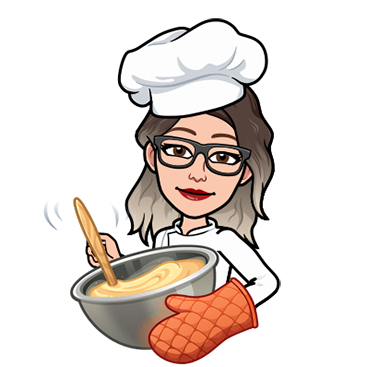
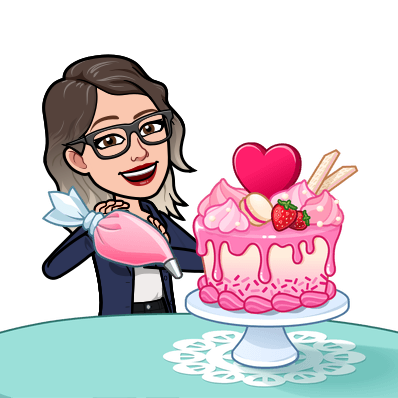
update hobbies (images, links, fancybox)

diff --git a/src/assets/css/styles.css b/src/assets/css/styles.css
@@ -1981,6 +1981,17 @@ blockquote:after {
   margin: 0;
 }
 
+/* ----- hobbies ----- */
+.art-hobbies-item-frame {
+  height: 100px;
+  width: 100px;
+  padding-bottom: 0;
+  box-shadow: none !important;
+}
+.art-hobbies-item-frame img {
+  object-fit: scale-down !important;
+}
+
 /* ----- brands ----- */
 .art-brand {
   width: 120px;
@@ -2034,7 +2045,8 @@ footer a:hover {
 }
 
 /* ----- portfolio items ----- */
-.art-portfolio-item-frame {
+.art-portfolio-item-frame,
+.art-hobbies-item-frame {
   display: block;
   width: 100%;
   outline: inherit;
@@ -2043,7 +2055,8 @@ footer a:hover {
   position: relative;
   padding-bottom: 60%;
 }
-.art-portfolio-item-frame img {
+.art-portfolio-item-frame img,
+.art-hobbies-item-frame img {
   position: absolute;
   width: 100%;
   height: 100%;
@@ -2054,7 +2067,8 @@ footer a:hover {
   filter: brightness(85%) blur(0);
   transition: 0.4s ease-in-out;
 }
-.art-portfolio-item-frame .art-item-hover {
+.art-portfolio-item-frame .art-item-hover,
+.art-hobbies-item-frame .art-item-hover {
   width: 27px;
   height: 27px;
   box-shadow: 0 1px 4px 0 var(--color-box-shadow-0);
@@ -2071,14 +2085,17 @@ footer a:hover {
   align-items: center;
   transition: 0.4s ease-in-out;
 }
-.art-portfolio-item-frame:hover .art-item-hover {
+.art-portfolio-item-frame:hover .art-item-hover,
+.art-hobbies-item-frame:hover .art-item-hover {
   opacity: 0.5;
 }
-.art-portfolio-item-frame:hover .art-item-hover:hover {
+.art-portfolio-item-frame:hover .art-item-hover:hover,
+.art-hobbies-item-frame:hover .art-item-hover:hover {
   opacity: 1;
   transform: scale(1.07);
 }
-.art-portfolio-item-frame:hover img {
+.art-portfolio-item-frame:hover img,
+.art-hobbies-item-frame:hover img {
   transform: scale(1.07);
   filter: brightness(100%) blur(0);
 }
@@ -2266,7 +2283,7 @@ footer a:hover {
   z-index: 999999999999999999;
 }
 .fancybox-content .fancybox-image {
-  box-shadow: 0 3px 8px 0 var(--color-box-shadow-0);
+  /* box-shadow: 0 3px 8px 0 var(--color-box-shadow-0); */
 }
 .fancybox-thumbs {
   background: linear-gradient(159deg, #2d2d3a 0%, #2b2b35 100%);

diff --git a/src/components/Hobbies/Hobbies.jsx b/src/components/Hobbies/Hobbies.jsx
@@ -1,11 +1,48 @@
 import React from 'react';
 import SectionTitle from '../Templates/Text/SectionTitle';
+import HobbiesCard from './HobbiesCard';
+import SwiperNavigation from '../Templates/Swiper/SwiperNavigation';
+// Import Swiper React components
+import SwiperCore, { Navigation, Pagination, A11y, Autoplay } from 'swiper';
+import { Swiper, SwiperSlide } from 'swiper/react';
+
+// configure Swiper to use modules
+SwiperCore.use([Navigation, Pagination, A11y]);
 
 export default function Hobbies(props) {
+  SwiperCore.use([Autoplay]);
+
   return (
     <div className='container-fluid'>
-      <div className='row p-30-0'>
-        <SectionTitle title='My Hobbies' />
+      <div className='row p-30-30'>
+        <SectionTitle title={props.data.title} />
+
+        <div class='col-lg-12'>
+          <Swiper
+            spaceBetween={0}
+            slidesPerView={5}
+            speed={500}
+            autoplay={{ delay: 2000 }}
+            breakpoints={{
+              320: { slidesPerView: 3 },
+              480: { slidesPerView: 3 },
+              640: { slidesPerView: 4 },
+              992: { slidesPerView: 4 },
+              1200: { slidesPerView: 5 },
+              1500: { slidesPerView: 5 },
+            }}
+            navigation={{ nextEl: '.art-hobbies-swiper-next', prevEl: '.art-hobbies-swiper-prev' }}
+            pagination={{ el: '.hobbies-swiper-pagination', type: 'bullets', clickable: true }}
+          >
+            {props.data.hobbies.map((hobby) => (
+              <SwiperSlide key={hobby.id}>
+                <HobbiesCard key={hobby.id} title={hobby.title} image={hobby.image} fancybox={hobby.fancybox} section='hobbies' />
+              </SwiperSlide>
+            ))}
+          </Swiper>
+        </div>
+
+        <SwiperNavigation section='hobbies' />
       </div>
     </div>
   );

diff --git a/src/components/Hobbies/HobbiesCard.jsx b/src/components/Hobbies/HobbiesCard.jsx
@@ -1,0 +1,19 @@
+import React from 'react';
+
+export default function HobbiesCard(props) {
+  return (
+    <div className={'art-a art-' + props.section + '-item-frame'}>
+      <a
+        data-fancybox='hobbies'
+        href={process.env.PUBLIC_URL + props.fancybox}
+        class={'art-a art-' + props.section + '-item-frame art-horizontal'}
+      >
+        <img src={process.env.PUBLIC_URL + props.image} alt={props.title} />
+
+        <span class='art-item-hover'>
+          <i class='fas fa-expand'></i>
+        </span>
+      </a>
+    </div>
+  );
+}

diff --git a/src/routes/Routes.jsx b/src/routes/Routes.jsx
@@ -47,7 +47,7 @@ export default function App(props) {
       </Route>
 
       <Route exact path='/about'>
-        <AboutPage data={props.data} background={props.background} setBackground={props.setBackground} />
+        <AboutPage data={props.data.hobbies} background={props.background} setBackground={props.setBackground} />
       </Route>
 
       <Route exact path='/contact'>

diff --git a/src/views/AboutPage.jsx b/src/views/AboutPage.jsx
@@ -6,7 +6,7 @@ export default function AboutPage(props) {
   return (
     <>
       <About background={props.background} />
-      <Hobbies />
+      <Hobbies data={props.data} />
     </>
   );
 }
